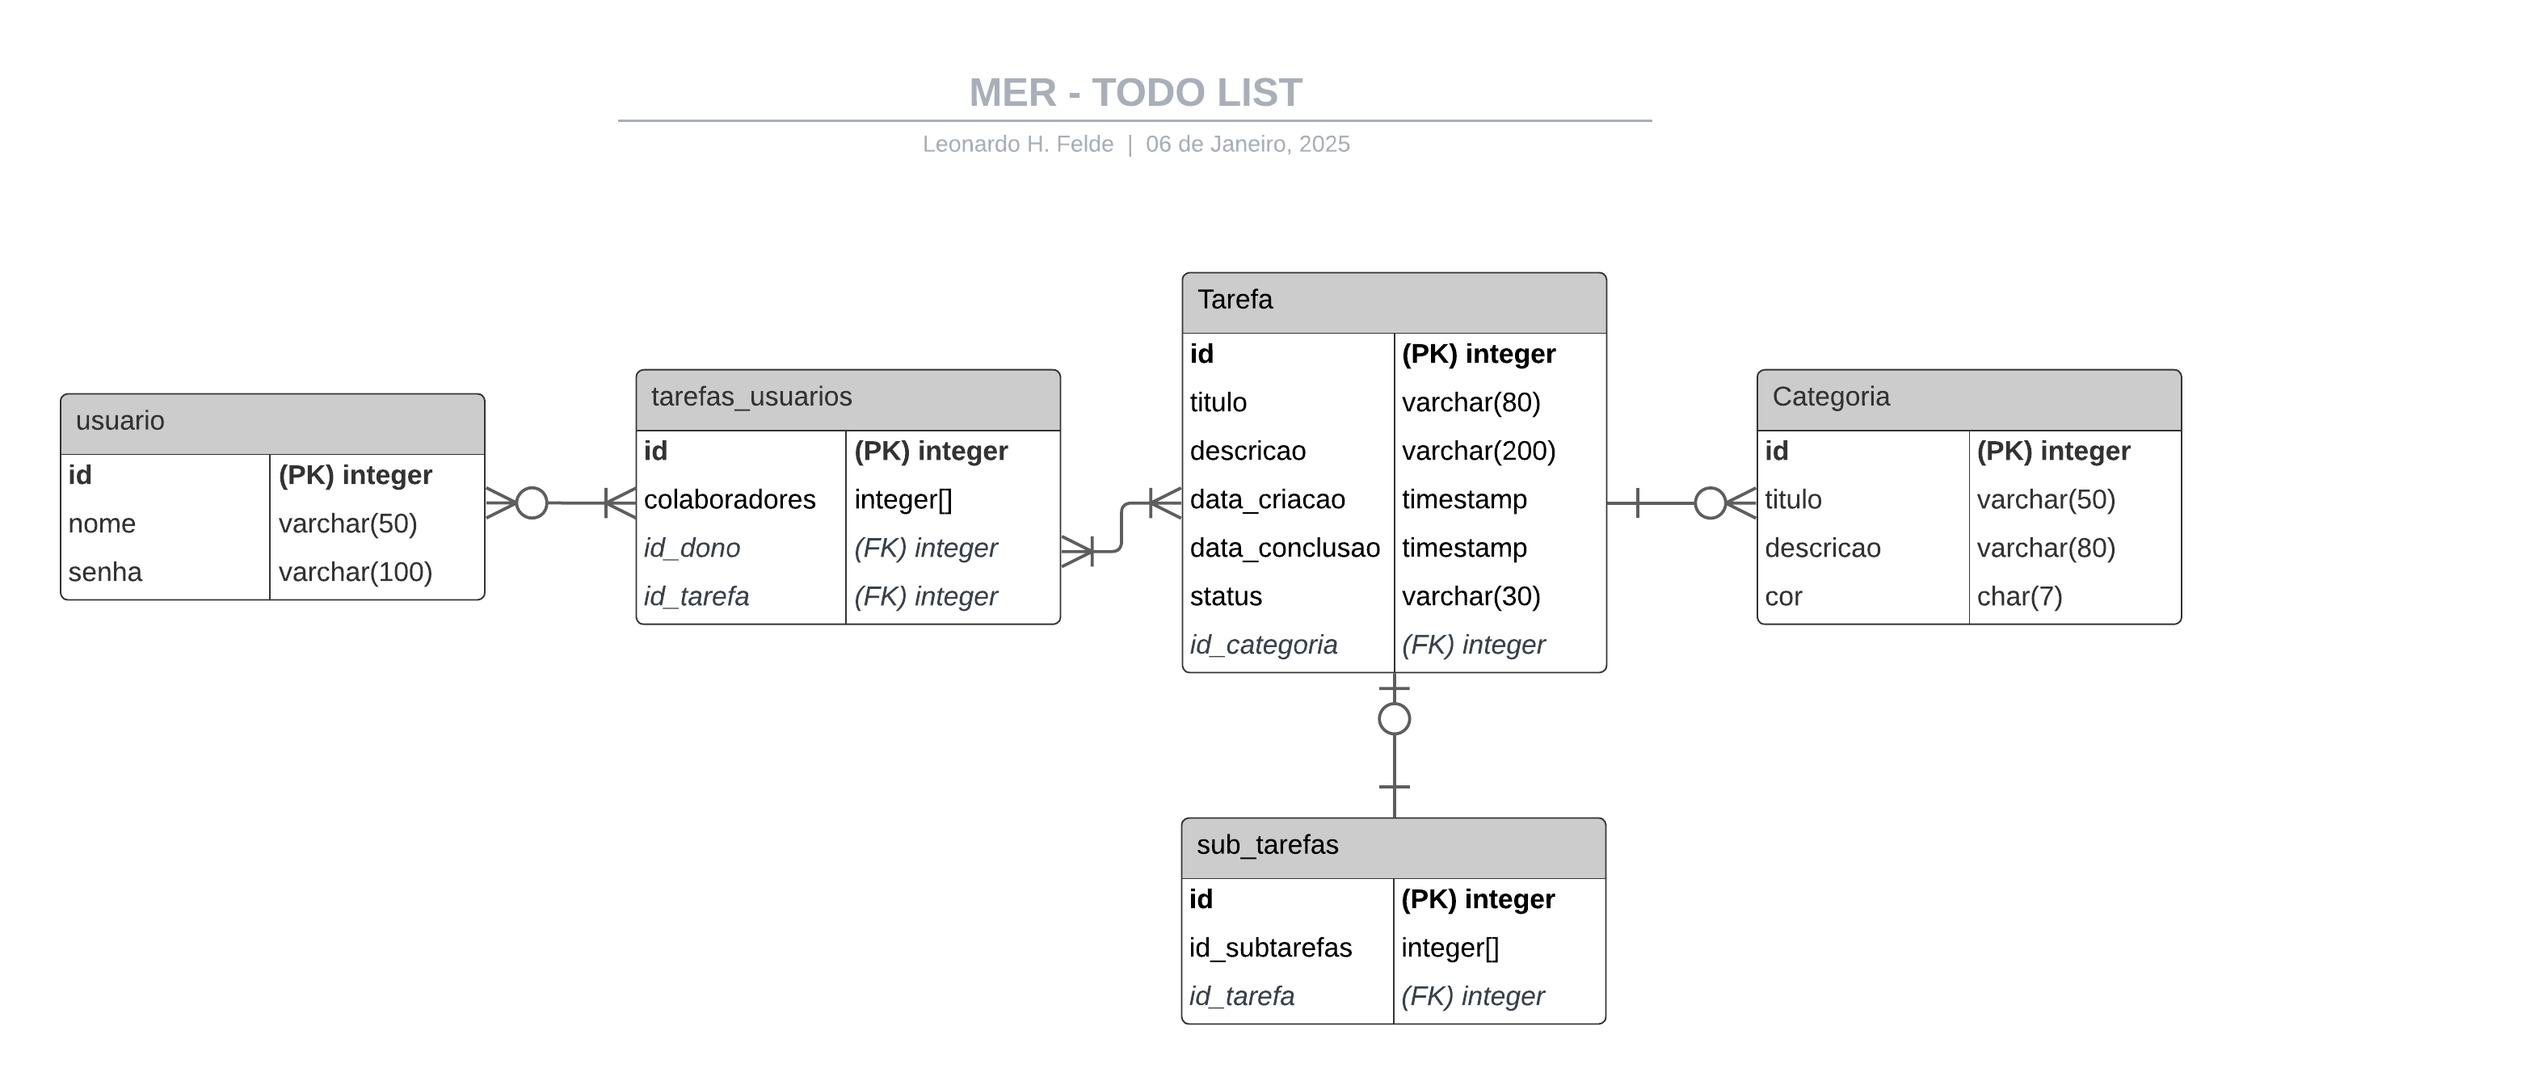
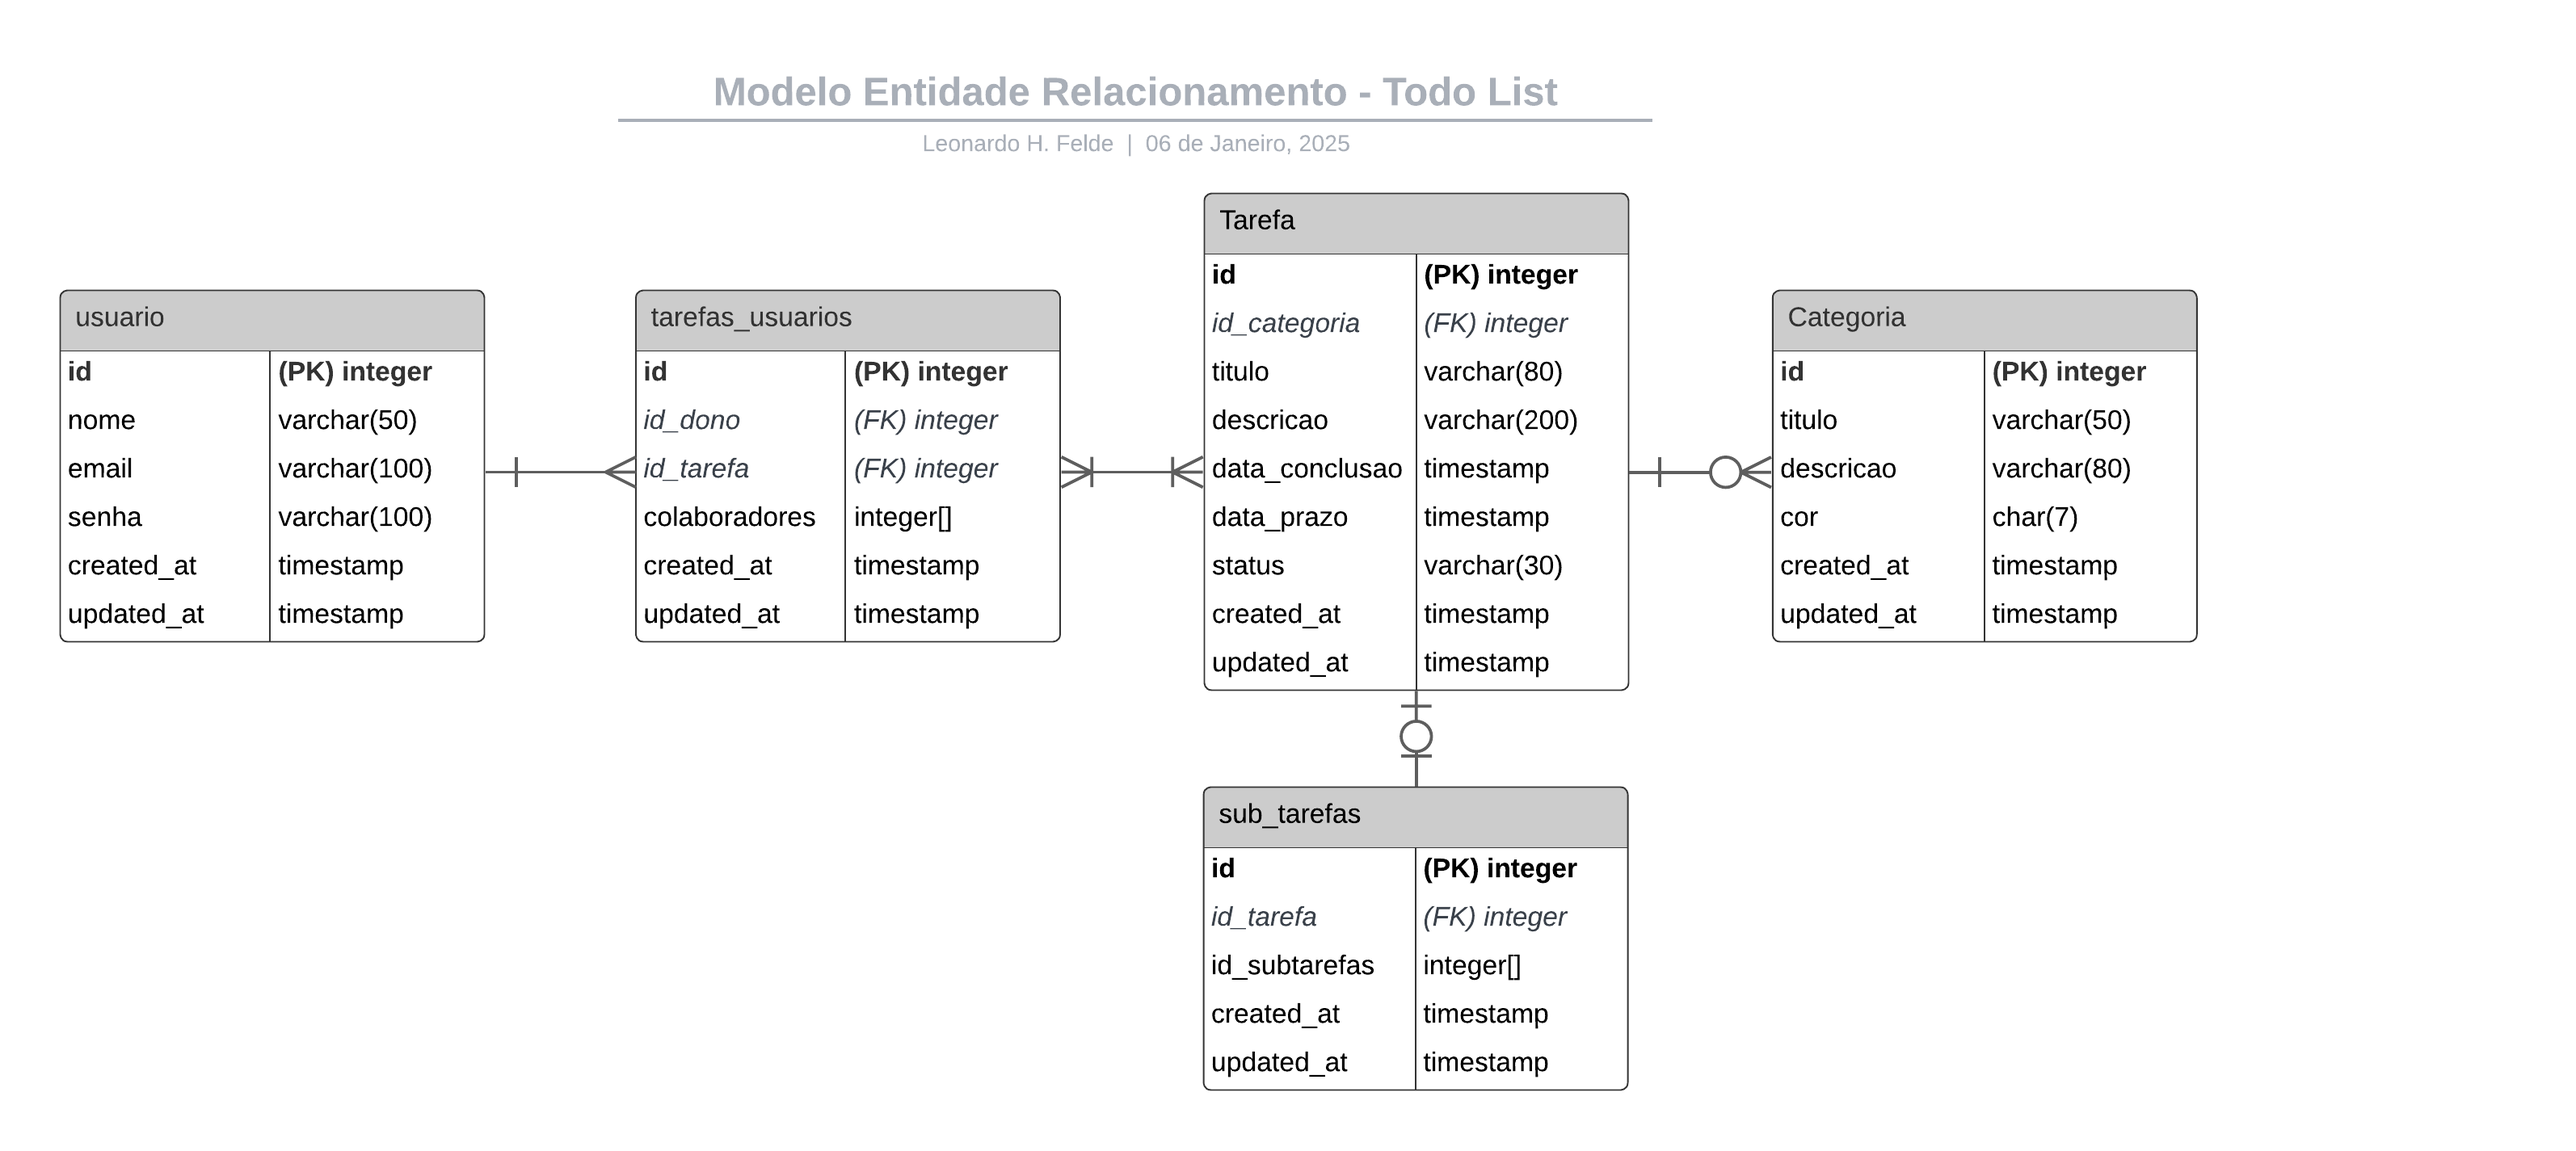
feat: melhoria MER + correções Controllers

Changed region(s): [[0.0, 0.0611, 0.8708, 0.9464]]

diff --git a/backend/app/Http/Controllers/TarefaController.php b/backend/app/Http/Controllers/TarefaController.php
@@ -3,7 +3,11 @@
 namespace App\Http\Controllers;
 
 use App\Models\Tarefa;
+use App\Models\Categoria;
+use App\Models\TarefaUsuario;
 use Illuminate\Http\Request;
+use Illuminate\Support\Facades\DB;
+use App\Http\Controllers\TarefaUsuarioController;
 
 class TarefaController extends Controller
 {
@@ -20,12 +24,31 @@ class TarefaController extends Controller
             'titulo' => 'required|string|max:80',
             'descricao' => 'nullable|string|max:200',
             'data_conclusao' => 'nullable|date',
+            'data_prazo' => 'nullable|date',
             'status' => 'required|string|max:30',
-            'id_categoria' => 'required|integer|exist----------s:categorias,id',
+            'id_categoria' => 'nullable|integer|exists:categorias,id',
+            'colaboradores' => 'nullable|array',
         ]);
 
-        $tarefa = Tarefa::create($validated);
-        return response()->json($tarefa, 201);
+        DB::beginTransaction();
+
+        try {
+            $tarefa = Tarefa::create($validated);
+
+            // Criação da relação na tabela tarefas_usuarios
+            $tarefaUsuarioController = new TarefaUsuarioController();
+            $tarefaUsuarioController->store([
+                'id_dono' => auth()->id(),
+                'id_tarefa' => $tarefa->id,
+                'colaboradores' => $validated['colaboradores'] ?? null
+            ]);
+            DB::commit();
+
+            return response()->json($tarefa, 201);
+        } catch (\Exception $e) {
+            DB::rollBack();
+            return response()->json(['error' => 'Não foi possível criar a tarefa'], 500);
+        }
     }
 
     // Carregar uma tarefa
@@ -41,12 +64,36 @@ class TarefaController extends Controller
             'titulo' => 'nullable|string|max:80',
             'descricao' => 'nullable|string|max:200',
             'data_conclusao' => 'nullable|date',
+            'data_prazo' => 'nullable|date',
             'status' => 'nullable|string|max:30',
             'id_categoria' => 'nullable|integer|exists:categorias,id',
+            'colaboradores' => 'nullable|array',
         ]);
+        DB::beginTransaction();
 
-        $tarefa->update($validated);
-        return response()->json($tarefa, 200);
+        try {
+            $tarefa->update($validated);
+            
+            // se alterado os colaboradores então atualiza a tabela relacionada
+            if (isset($validated['colaboradores'])) {
+                $tarefaUsuario = TarefaUsuario::where('id_tarefa', $tarefa->id)
+                                          ->where('id_dono', auth()->id())
+                                          ->first();
+
+                if ($tarefaUsuario) {
+                    $tarefaUsuarioController = new TarefaUsuarioController();
+                    $tarefaUsuarioController->update(
+                        ['id' => $tarefaUsuario->id],  // Envia o id do TarefaUsuario
+                        ['colaboradores' => $validated['colaboradores']]  // Envia os colaboradores
+                    );
+                }
+            }
+            
+            return response()->json($tarefa, 200);
+        } catch (\Exception $e) {
+            DB::rollBack();
+            return response()->json(['error' => 'Não foi possível criar a tarefa'], 500);
+        }
     }
 
     // Excluir tarefa

diff --git a/backend/app/Http/Controllers/TarefaUsuarioController.php b/backend/app/Http/Controllers/TarefaUsuarioController.php
@@ -3,7 +3,7 @@
 namespace App\Http\Controllers;
 
 use App\Models\TarefaUsuario;
-use Illuminate\Http\Request;
+use Illuminate\Validation\ValidationException;
 
 class TarefaUsuarioController extends Controller
 {
@@ -12,17 +12,12 @@ class TarefaUsuarioController extends Controller
         return TarefaUsuario::all();
     }
 
-    public function store(Request $request)
+    public function store(array $data)
     {
-        $request->validate([
-            'id_dono' => 'required|exists:usuarios,id',
-            'id_tarefa' => 'required|exists:tarefas,id',
-            'colaboradores' => 'nullable|array',
-        ]);
+        $validatedData = $this->validateStoreData($data);
+        $tarefaUsuario = TarefaUsuario::create($validatedData);
 
-        $tarefaUsuario = TarefaUsuario::create($request->all());
-
-        return response()->json($tarefaUsuario, 201);
+        return $tarefaUsuario;
     }
 
     public function show($id)
@@ -30,18 +25,37 @@ class TarefaUsuarioController extends Controller
         return TarefaUsuario::findOrFail($id);
     }
 
-    public function update(Request $request, $id)
+    public function update(array $data, $id)
     {
         $tarefaUsuario = TarefaUsuario::findOrFail($id);
-        $tarefaUsuario->update($request->all());
 
-        return response()->json($tarefaUsuario, 200);
+        $validatedData = $this->validateStoreData($data);
+
+        $tarefaUsuario->update($validatedData);
+
+        return $tarefaUsuario;
     }
 
     public function destroy($id)
     {
         TarefaUsuario::destroy($id);
 
-        return response()->json(null, 204);
+        return true;
+    }
+
+    private function validateStoreData(array $data)
+    {
+        // Validação manual dos dados
+        $validator = \Validator::make($data, [
+            'id_dono' => 'required|exists:usuarios,id',
+            'id_tarefa' => 'required|exists:tarefas,id',
+            'colaboradores' => 'nullable|array',
+            'colaboradores.*' => 'integer|exists:users,id'
+        ]);
+
+        if ($validator->fails()) {
+            throw new ValidationException($validator);
+        }
+        return $validator->validated();
     }
 }

diff --git a/backend/database/migrations/2025_01_06_190313_create_tarefas_table.php b/backend/database/migrations/2025_01_06_190313_create_tarefas_table.php
@@ -12,10 +12,10 @@ class CreateTarefasTable extends Migration
             $table->id();
             $table->string('titulo', 80);
             $table->string('descricao', 200)->nullable();
-            $table->timestamp('data_criacao')->useCurrent();
             $table->timestamp('data_conclusao')->nullable();
+            $table->timestamp('data_prazo')->nullable();
             $table->string('status', 30);
-            $table->unsignedInteger('id_categoria');
+            $table->unsignedInteger('id_categoria')->nullable();
             $table->foreign('id_categoria')->references('id')->on('categorias')->onDelete('cascade');
             $table->timestamps();
         });

diff --git a/backend/routes/api.php b/backend/routes/api.php
@@ -17,6 +17,5 @@ Route::middleware('auth:sanctum')->group(function () {
     Route::apiResource('categorias', CategoriaController::class);
     Route::apiResource('sub-tarefas', SubTarefaController::class);
     Route::apiResource('tarefas', TarefaController::class);
-    Route::apiResource('tarefas-usuarios', TarefaUsuarioController::class);
 });
 

diff --git a/backend/app/Models/Tarefa.php b/backend/app/Models/Tarefa.php
@@ -15,6 +15,7 @@ class Tarefa extends Model
         'titulo',
         'descricao',
         'data_conclusao',
+        'data_prazo',
         'status',
         'id_categoria',
     ];
